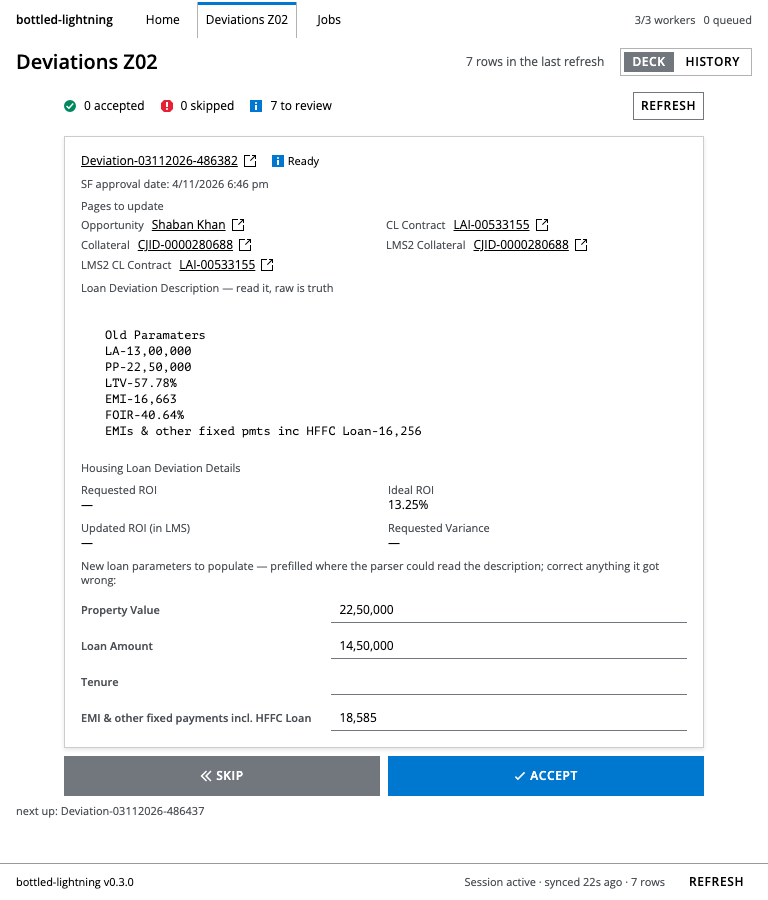
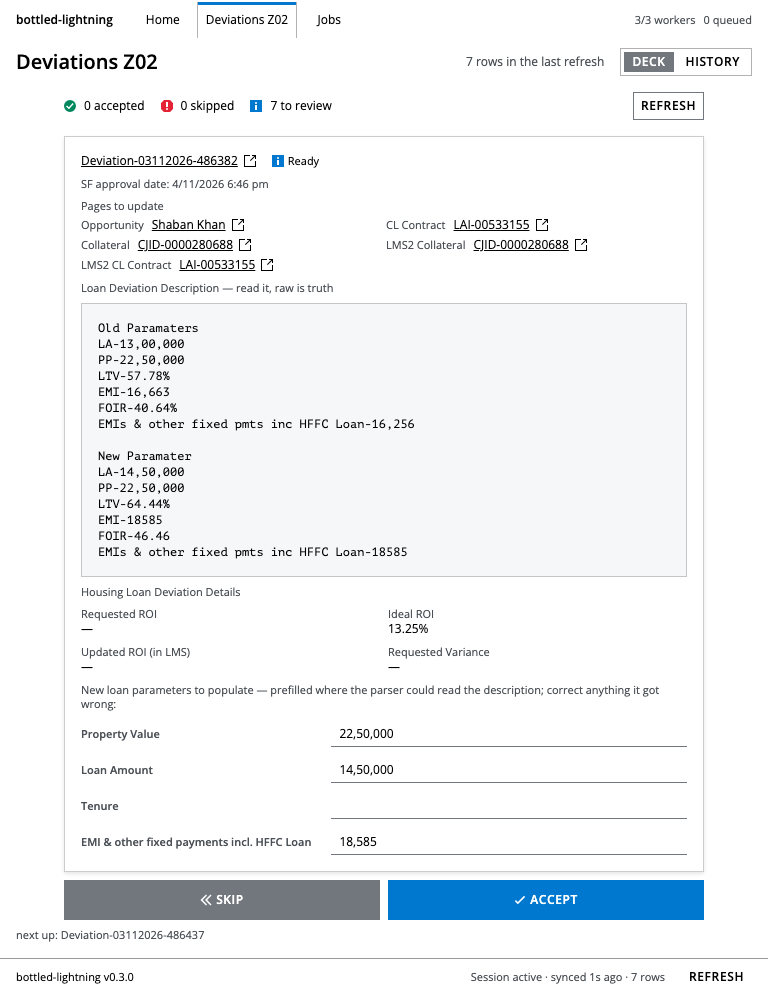
Show the whole description in a bordered Salt card
Scrolling the description to reach the New parameter block was the slowest part
of a decision. The description now renders in full (no max-height, no internal
scroll) inside a secondary Salt Card, so it is visibly separated from the form
and both parameter blocks are on screen at once.

The deck card grows instead of clipping; the 1280x800 layout still fits the
default card and both blocks. Screenshots at 390/768/1280 refreshed.

diff --git a/frontend/src/components/DecisionCard.tsx b/frontend/src/components/DecisionCard.tsx
@@ -15,7 +15,6 @@ import {
   GridLayout,
   Input,
   Link,
-  Panel,
   StackLayout,
   Text,
 } from '@salt-ds/core'
@@ -120,7 +119,7 @@ export function DecisionCard({
           <Text color="secondary" styleAs="label">
             Loan Deviation Description — read it, raw is truth
           </Text>
-          <Panel className="deck-description">
+          <Card variant="secondary" elevation="flat" className="deck-description">
             {detail === null ? (
               <Text color="secondary">loading description…</Text>
             ) : description ? (
@@ -130,7 +129,7 @@ export function DecisionCard({
             ) : (
               <Text color="secondary">no description picked yet — run an extraction first</Text>
             )}
-          </Panel>
+          </Card>
 
           <Text color="secondary" styleAs="label">
             Housing Loan Deviation Details

diff --git a/frontend/src/index.css b/frontend/src/index.css
@@ -97,11 +97,6 @@
   margin-right: auto;
 }
 
-.deck-description {
-  max-height: 150px;
-  overflow-y: auto;
-}
-
 .deck-description-text {
   white-space: pre-wrap;
   overflow-wrap: anywhere;

diff --git a/docs/frontend-design-deviations.md b/docs/frontend-design-deviations.md
@@ -294,8 +294,9 @@ Rules:
   CSS is limited to layout, responsive column hiding and motion.
 - **High density.** Page padding 10/16 px, headings 20/17/14 px, data text 11–12 px,
   layout gaps 8–16 px (not 24–32), table cells 4–5 px, card padding 10–12 px, the deck
-  description panel 150 px tall. The 1280×800 laptop shows the whole deck card, its
-  tallies and its actions without scrolling.
+  description block in a bordered Salt Card. The description is shown in full (no
+  internal scroll); the deck grows instead, because copying the New block matters more
+  than a fixed card height.
 - **No horizontal page scrolling at 390/768/1280 px.** The shell is border-box; filters
   wrap; the list drops to Status + Deviation at 600 px instead of scrolling sideways.
   Long values wrap (`overflow-wrap: anywhere`), never widen the page.
